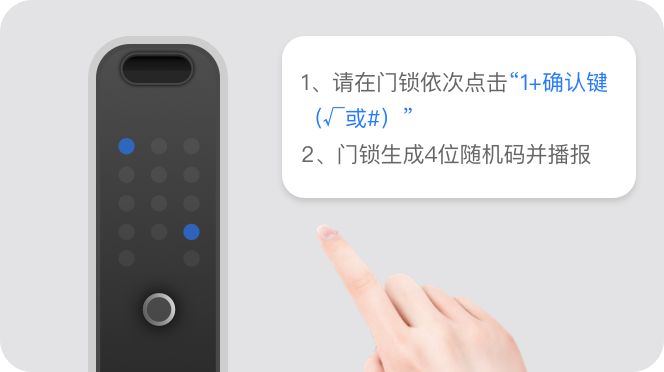
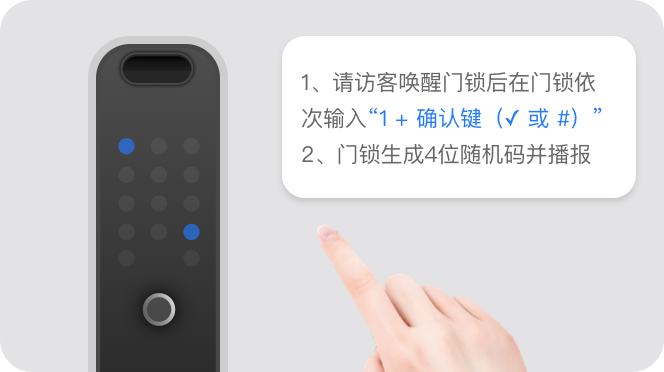
style: 临时密码样式调整

Changed region(s): [[0.512, 0.1774, 0.9337, 0.2661], [0.4518, 0.2661, 0.8735, 0.3548]]

diff --git a/src/package-lab/pages/doorlock-psw/index.ts b/src/package-lab/pages/doorlock-psw/index.ts
@@ -26,10 +26,10 @@ ComponentWithComputed({
     infoReady(data) {
       return data.adminPwd && data.randomCode?.length === 4
     },
-  },
-
-  pageLifetimes: {
-    async show() {},
+    tmpPwdView(data) {
+      if (!data.tmpPwd?.length) return ''
+      return `${data.tmpPwd.slice(0, 4)} ${data.tmpPwd.slice(4)}`
+    },
   },
 
   methods: {
